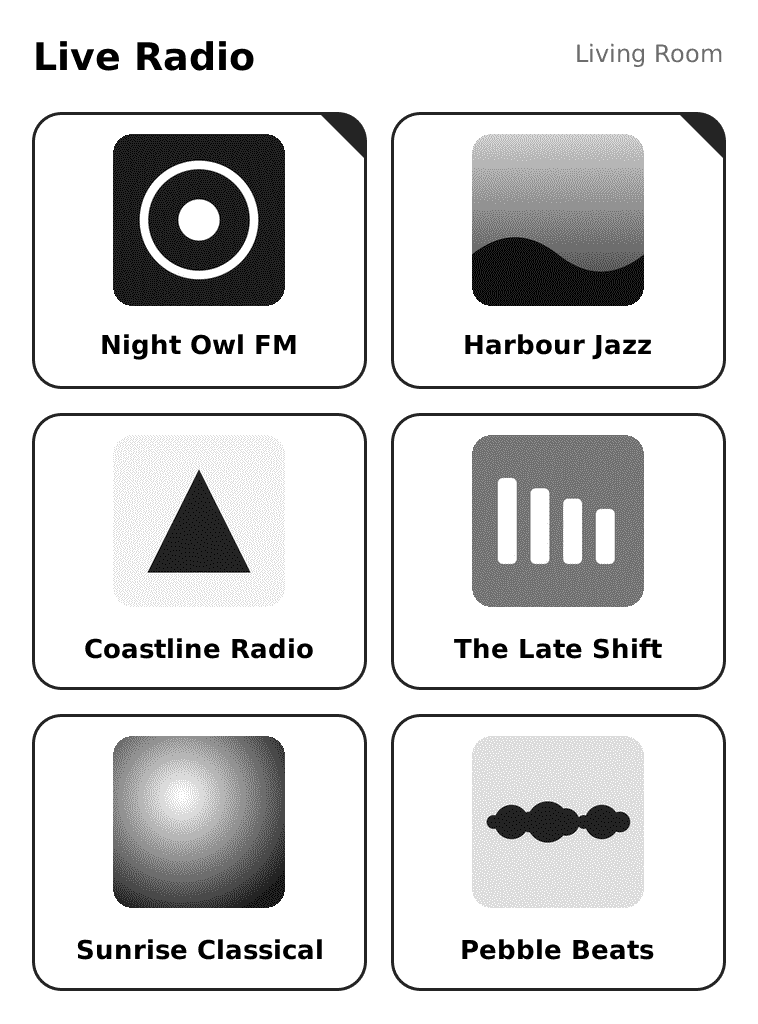
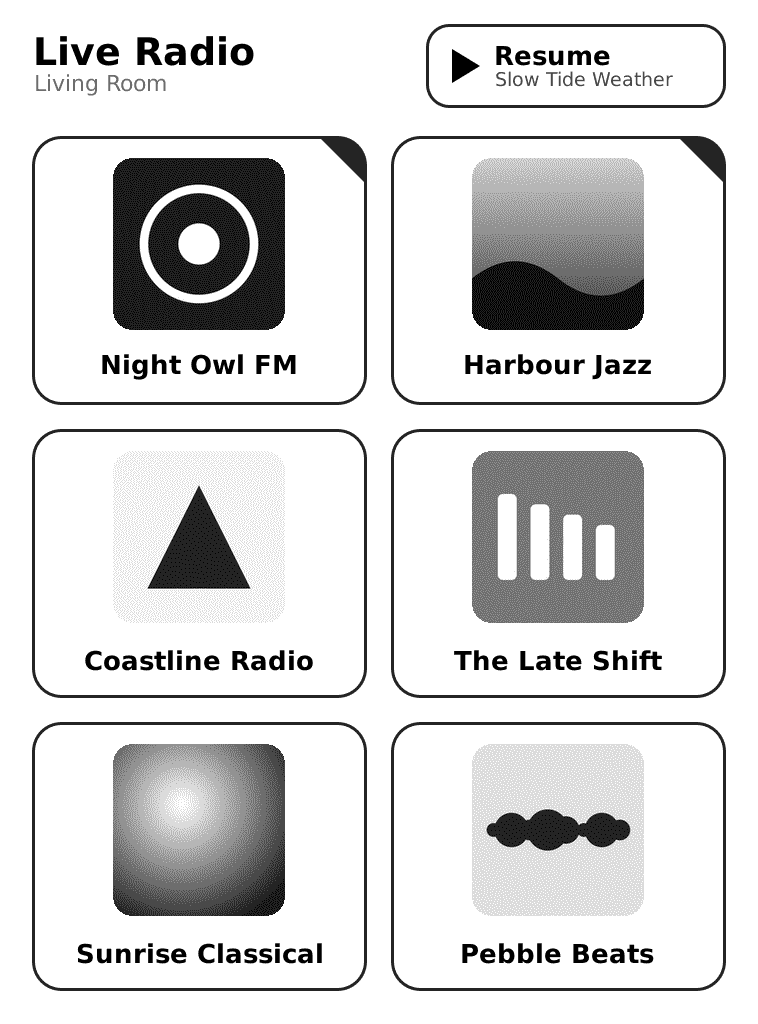
Add a Resume button to the stations screen (v1.3.0)
With a blank idle screen, tapping the panel resumes whatever Roon had
loaded. The stations screen replaced that, so it now has a Resume
button on the right of its header. It shows the title of what the zone
has loaded and appears only while nothing is playing and Roon allows
play; a tap sends "play" (never a toggle). It also appears on the
stations screen opened with the back button while paused, and resuming
from there returns to the now-playing screen straight away.

While idle, the screen is redrawn if what Resume would play changes.
All six station tiles stay; the header is slightly taller and now shows
the zone name under "Live Radio". --test-stations takes "resume=Title"
to draw the button.

diff --git a/bridge/bridge.js b/bridge/bridge.js
@@ -136,10 +136,12 @@ const TEXT_BOX_WITH_BACK = PORTRAIT
   ? { x: BACK_PAD + BACK, y: ART, w: CW - 2 * (BACK_PAD + BACK), h: CH - ART }
   : { x: ART, y: 0, w: CW - ART, h: CH - (BACK + BACK_PAD + 8) };
 
-// Stations screen: a header line, then a grid of up to six tiles.
+// Stations screen: a header, then a grid of up to six tiles.
 const ST = PORTRAIT
-  ? { cols: 2, rows: 3, m: 32, gap: 24, top: 112, bottom: 32 }
-  : { cols: 3, rows: 2, m: 32, gap: 24, top: 100, bottom: 32 };
+  ? { cols: 2, rows: 3, m: 32, gap: 24, top: 136, bottom: 32 }
+  : { cols: 3, rows: 2, m: 32, gap: 24, top: 124, bottom: 32 };
+// Resume button, on the right of the header: plays what the zone has loaded.
+const RESUME_BOX = { w: 300, h: 84, x: CW - ST.m - 300, y: Math.round((ST.top - 84) / 2) - 2 };
 const TILE_W = Math.floor((CW - 2 * ST.m - (ST.cols - 1) * ST.gap) / ST.cols);
 const TILE_H = Math.floor((CH - ST.top - ST.bottom - (ST.rows - 1) * ST.gap) / ST.rows);
 const LOGO = 172;
@@ -307,11 +309,11 @@ function backButtonSvg() {
 
 // Renders Pango markup, built for a scale, into an ink map (255 = ink) no larger
 // than maxW x maxH, shrinking the text down to minScale if needed.
-async function renderInk(markup, maxW, maxH, { align = 'centre', minScale = 0.5 } = {}) {
+async function renderInk(markup, maxW, maxH, { align = 'centre', minScale = 0.5, wrap = 'word-char' } = {}) {
   let img = null;
   for (let scale = 1; scale >= minScale - 1e-9; scale -= 0.05) {
     const { data, info } = await sharp({
-      text: { text: markup(scale), font: CFG.font, width: maxW, dpi: 72, wrap: 'word-char', align, spacing: 2 },
+      text: { text: markup(scale), font: CFG.font, width: maxW, dpi: 72, wrap, align, spacing: 2 },
     })
       .toColourspace('b-w')
       .raw()
@@ -335,6 +337,22 @@ function blitInk(canvas, ink, x, y, w, h, level = 0) {
       if (v < canvas[i]) canvas[i] = v;
     }
   }
+}
+
+// One line of text, shortened with an ellipsis until it fits maxW.
+async function renderOneLine(text, sizePx, maxW, attrs = '') {
+  const chars = Array.from(cleanLine(text));
+  const make = (n) => renderInk(() => `<span size="${sizePx * 1024}"${attrs}>${esc(n < chars.length ? chars.slice(0, n).join('').trimEnd() + '…' : chars.join(''))}</span>`, maxW * 2, sizePx * 2, { align: 'left', wrap: 'none', minScale: 1 });
+  let ink = await make(chars.length);
+  if (ink.width <= maxW) return ink;
+  let lo = 0;
+  let hi = chars.length - 1;
+  while (lo < hi) { // longest prefix that fits
+    const mid = Math.ceil((lo + hi) / 2);
+    if ((await make(mid)).width <= maxW) lo = mid;
+    else hi = mid - 1;
+  }
+  return make(lo);
 }
 
 const LOGO_RADIUS = 20;
@@ -361,18 +379,33 @@ async function drawLogo(canvas, imageBuf, x, y) {
 }
 
 // stations: [{ title, pinned, logo (image Buffer or null) }], up to six. A
-// message (e.g. "Waiting for Roon") replaces the grid.
-async function composeStations(stations, { message = '' } = {}) {
+// message (e.g. "Waiting for Roon") replaces the grid. resume: { title } of
+// what the zone has loaded, for the Resume button, or null to leave it out.
+async function composeStations(stations, { message = '', resume = null } = {}) {
   const canvas = new Uint8Array(CW * CH).fill(WHITE);
 
-  // Header: "Live Radio", and on the right the zone the stations play in.
-  const head = await renderInk(() => `<span size="${38 * 1024}" weight="bold">Live Radio</span>`, Math.floor(CW / 2), 60, { align: 'left' });
-  const headY = Math.max(0, Math.round((ST.top - 8 - head.height) / 2) + 4);
-  blitInk(canvas, head, ST.m + 4, headY, Math.floor(CW / 2), 60);
-  if (CFG.zoneName) {
-    const zw = Math.floor(CW / 2) - ST.m;
-    const zone = await renderInk((k) => `<span size="${Math.round(24 * k * 1024)}">${esc(cleanLine(CFG.zoneName))}</span>`, zw, 40, { align: 'left' });
-    blitInk(canvas, zone, CW - ST.m - 4 - Math.min(zone.width, zw), headY + Math.max(0, head.height - zone.height - 4), zw, 40, 3);
+  // Header: "Live Radio" with the zone the stations play in underneath.
+  const hw = CW - 2 * ST.m - RESUME_BOX.w - 16;
+  const head = await renderInk(() => `<span size="${38 * 1024}" weight="bold">Live Radio</span>`, hw, 60, { align: 'left' });
+  const zone = CFG.zoneName ? await renderOneLine(CFG.zoneName, 22, hw) : null;
+  const blockH = head.height + (zone ? zone.height + 8 : 0);
+  const headY = RESUME_BOX.y + Math.round((RESUME_BOX.h - blockH) / 2);
+  blitInk(canvas, head, ST.m + 4, headY, hw, 60);
+  if (zone) blitInk(canvas, zone, ST.m + 4, headY + head.height + 8, hw, 40, 3);
+
+  // Resume: a play triangle, "Resume", and what will play.
+  if (resume) {
+    const b = RESUME_BOX;
+    const cy = b.y + b.h / 2;
+    await drawSvg(canvas, `<svg xmlns="http://www.w3.org/2000/svg" width="${CW}" height="${ST.top}">`
+      + `<rect x="${b.x + 1.5}" y="${b.y + 1.5}" width="${b.w - 3}" height="${b.h - 3}" rx="22" fill="#ffffff" stroke="${greyOf(1)}" stroke-width="3"/>`
+      + `<path d="M${b.x + 26} ${cy - 17} L${b.x + 26} ${cy + 17} L${b.x + 54} ${cy} Z" fill="${greyOf(0)}"/></svg>`, 0, 0, CW, ST.top);
+    const tw = b.w - 70 - 16;
+    const label = await renderInk(() => `<span size="${26 * 1024}" weight="bold">Resume</span>`, tw, 40, { align: 'left' });
+    const what = await renderOneLine(resume.title || 'what was playing', 19, tw);
+    const ty = b.y + Math.round((b.h - label.height - what.height - 5) / 2);
+    blitInk(canvas, label, b.x + 70, ty, tw, 40);
+    blitInk(canvas, what, b.x + 70, ty + label.height + 5, tw, 30, 2);
   }
 
   if (message || !stations.length) {
@@ -456,10 +489,10 @@ let current = null; // { canvas, packed, etag, at, screen, hotspot, tiles }
 // every response (200 and 304), so light changes never force an e-ink refresh.
 // screen: nowplaying | stations | idle. hotspot: the back button, if drawn.
 // tiles: where each station is, for hit-testing taps on the stations screen.
-function publish(canvas, { screen = 'idle', hotspot = null, tiles = null } = {}) {
+function publish(canvas, { screen = 'idle', hotspot = null, tiles = null, resume = null, resumeSig = '' } = {}) {
   const packed = pack(toPanel(canvas));
   const etag = '"' + crypto.createHash('sha1').update(packed).digest('hex').slice(0, 20) + '"';
-  current = { canvas, packed, etag, at: new Date().toISOString(), screen, hotspot, tiles };
+  current = { canvas, packed, etag, at: new Date().toISOString(), screen, hotspot, tiles, resume, resumeSig };
   log(`frame ${etag} (${screen})`);
 }
 
@@ -471,7 +504,9 @@ if (process.argv[2] === '--test' || process.argv[2] === '--test-stations') {
   const args = process.argv.slice(3);
   // Stations test: each argument is a station name, optionally "Name=logo.png".
   // Names listed in RADIO_STATIONS are drawn pinned, first, as on the panel.
-  const testStations = () => args.slice(0, MAX_STATIONS).map((a) => {
+  // An argument "resume=Title" draws the Resume button with that title.
+  const resumeArg = args.find((a) => a.startsWith('resume='));
+  const testStations = () => args.filter((a) => !a.startsWith('resume=')).slice(0, MAX_STATIONS).map((a) => {
     const eq = a.lastIndexOf('=');
     const file = eq > 0 ? a.slice(eq + 1) : '';
     const named = file && fs.existsSync(file);
@@ -482,7 +517,10 @@ if (process.argv[2] === '--test' || process.argv[2] === '--test-stations') {
     let canvas;
     if (process.argv[2] === '--test-stations') {
       const list = testStations();
-      canvas = await composeStations(list, { message: list.length ? '' : 'No stations in My Live Radio' });
+      canvas = await composeStations(list, {
+        message: list.length ? '' : 'No stations in My Live Radio',
+        resume: resumeArg ? { title: resumeArg.slice('resume='.length) } : null,
+      });
     } else {
       const [file, l1 = 'Track Title', l2 = 'Artist', l3 = 'Album'] = args;
       canvas = await composeFrame(file ? fs.readFileSync(file) : null, [l1, l2, l3], { back: CFG.idleMode === 'stations' });
@@ -722,6 +760,15 @@ async function getLogo(key) {
   return buf;
 }
 
+// What the zone would play if resumed: shown on the Resume button while
+// nothing is playing and Roon allows play.
+function resumeInfo() {
+  const z = controlZone();
+  if (!z || z.state === 'playing' || z.state === 'loading' || !z.is_play_allowed) return null;
+  const n = nowPlayingOf(z);
+  return n ? { title: n.lines[0] } : null;
+}
+
 // Renders and publishes the stations screen; false if something newer won.
 async function showStations() {
   const seq = ++renderSeq;
@@ -738,9 +785,15 @@ async function showStations() {
     if (!st.imageKey) continue;
     try { st.logo = await getLogo(st.imageKey); } catch (e) { log('logo fetch failed:', e.message); }
   }
-  const canvas = await composeStations(chosen, { message });
+  const resume = resumeInfo();
+  const canvas = await composeStations(chosen, { message, resume });
   if (seq !== renderSeq) return false;
-  publish(canvas, { screen: 'stations', tiles: chosen.map((st, i) => ({ title: st.title, ...tileRect(i) })) });
+  publish(canvas, {
+    screen: 'stations',
+    tiles: chosen.map((st, i) => ({ title: st.title, ...tileRect(i) })),
+    resume: resume ? RESUME_BOX : null,
+    resumeSig: resume ? resume.title : '',
+  });
   return true;
 }
 
@@ -780,7 +833,13 @@ async function selectAt(x, y, ifMatch) {
   if (!current || current.screen !== 'stations' || ifMatch !== current.etag) {
     return { ok: false, status: 412, error: 'the screen has changed' };
   }
-  const tile = current.tiles.find((t) => x >= t.x && x < t.x + t.w && y >= t.y && y < t.y + t.h);
+  const inside = (b) => x >= b.x && x < b.x + b.w && y >= b.y && y < b.y + b.h;
+  if (current.resume && inside(current.resume)) {
+    const result = await transportControl('play');
+    if (result.ok && stationsUntil) closeStations();
+    return result;
+  }
+  const tile = current.tiles.find(inside);
   if (!tile) {
     if (!stationsUntil) return { ok: false, error: 'no station there' };
     closeStations();
@@ -826,6 +885,13 @@ function evaluate() {
     if (n.sig !== shownSig) showNowPlaying(n);
   } else if (shownSig !== 'idle' && !idleTimer) {
     idleTimer = setTimeout(goIdle, CFG.graceSec * 1000);
+  } else if (shownSig === 'idle' && current.screen === 'stations' && stationsEnabled()) {
+    // Idle on the stations screen: redraw if what Resume would play has changed.
+    const r = resumeInfo();
+    if ((r ? r.title : '') !== current.resumeSig) {
+      renderSeq++;
+      showStations().catch((e) => log('stations screen failed:', e.message));
+    }
   }
 }
 
@@ -993,6 +1059,7 @@ async function transportControl(action) {
     next: z.is_next_allowed,
     previous: z.is_previous_allowed,
     playpause: z.is_play_allowed || z.is_pause_allowed,
+    play: z.is_play_allowed,
   }[action];
   if (!allowed) return { ok: false, error: `${action} not available right now` };
   await roonCall((cb) => transport.control(z, action, cb));
@@ -1216,6 +1283,7 @@ http
             pinnedNotFound: missingPinned,
             recent: recentStations,
             onScreen: current.tiles ? current.tiles.map((t) => t.title) : null,
+            resume: current.resume ? current.resumeSig : null,
             backButtonUntil: stationsUntil ? new Date(stationsUntil).toISOString() : null,
           } : undefined,
           config: CFG,

diff --git a/README.md b/README.md
@@ -98,6 +98,7 @@ Directions are as you look at the panel. Each control only responds within its o
 | Text strip | swipe down | frontlight dimmer by `LIGHT_STEP` |
 | Back button (bottom left, stations mode only) | tap | show the stations screen |
 | Stations screen | tap a station | play it |
+| Stations screen | tap Resume | play what Roon has loaded in the zone (shown when something is paused or stopped) |
 | Stations screen | tap elsewhere | back to what's playing (when opened with the back button) |
 
 The frontlight controls only work while something is showing. When the panel is idle they do nothing, so the light setting can't change unseen.
@@ -152,6 +153,8 @@ The Inkplate's own settings in `config.h` cover only the connection: Wi-Fi, the 
 With `IDLE_MODE: stations`, the idle panel shows up to six buttons for Roon Live Radio stations. Tap one and it starts playing in `ZONE_NAME`; the panel then switches to the station's now-playing screen as usual. While music plays, a small back button in the bottom-left corner brings the stations screen up for `STATIONS_TIMEOUT_SEC` seconds. Tap a station to switch to it, or tap anywhere else to go back.
 
 The buttons come from **My Live Radio** in Roon, so add the stations you want there first (in Roon, under **Live Radio**, or with **Add Station** for a stream URL). The bridge can only play stations that are in that list.
+
+When the zone has something paused or stopped that Roon can play, a **Resume** button in the header shows its title and plays it with one tap, the way tapping the art does on a blank idle screen.
 
 Which six appear:
 
@@ -234,7 +237,7 @@ The Inkplate uses these endpoints, and they're also handy for debugging or your 
 |---|---|
 | `GET /frame` | The current frame: 388,096 bytes, 1024 × 758 pixels in native panel order, two pixels per byte with the high nibble first, values 0 (black) to 7 (white). Send `If-None-Match` to get `304` when the image is unchanged. Both 200 and 304 responses carry `X-Frontlight` (0–63), `X-Layout` and `X-Rotate`, so light changes never force an e-ink refresh, plus `X-Screen` (`nowplaying`, `stations` or `idle`) and, when the back button is drawn, `X-Stations-Button` (`x,y,w,h` in upright pixels). The firmware sends `X-Features: stations` to say it can use the stations screen; with `CONTROL_TOKEN` set, that only counts alongside a valid `X-Control-Token`. |
 | `POST /control?action=…` | One of `playpause`, `next`, `previous`, `vol_up`, `vol_down`, `light_toggle`, `light_up`, `light_down`, `stations` (show the stations screen). Returns `200` if carried out, or `409` with a JSON reason if refused (for example, volume at the ceiling). Also `400` for an unknown action, `401` for a missing or wrong `X-Control-Token`, and `403` for requests from a web browser. |
-| `POST /control?action=select&x=…&y=…` | A tap on the stations screen, in upright pixels, with `If-Match` set to the ETag of the frame being shown. Returns `412` if the screen has changed since. |
+| `POST /control?action=select&x=…&y=…` | A tap on the stations screen (a station or the Resume button), in upright pixels, with `If-Match` set to the ETag of the frame being shown. Returns `412` if the screen has changed since. |
 | `GET /preview.png` | What the panel should be showing, upright. |
 | `GET /status` | JSON: zones and their states, what's shown, light level and active configuration. |
 
